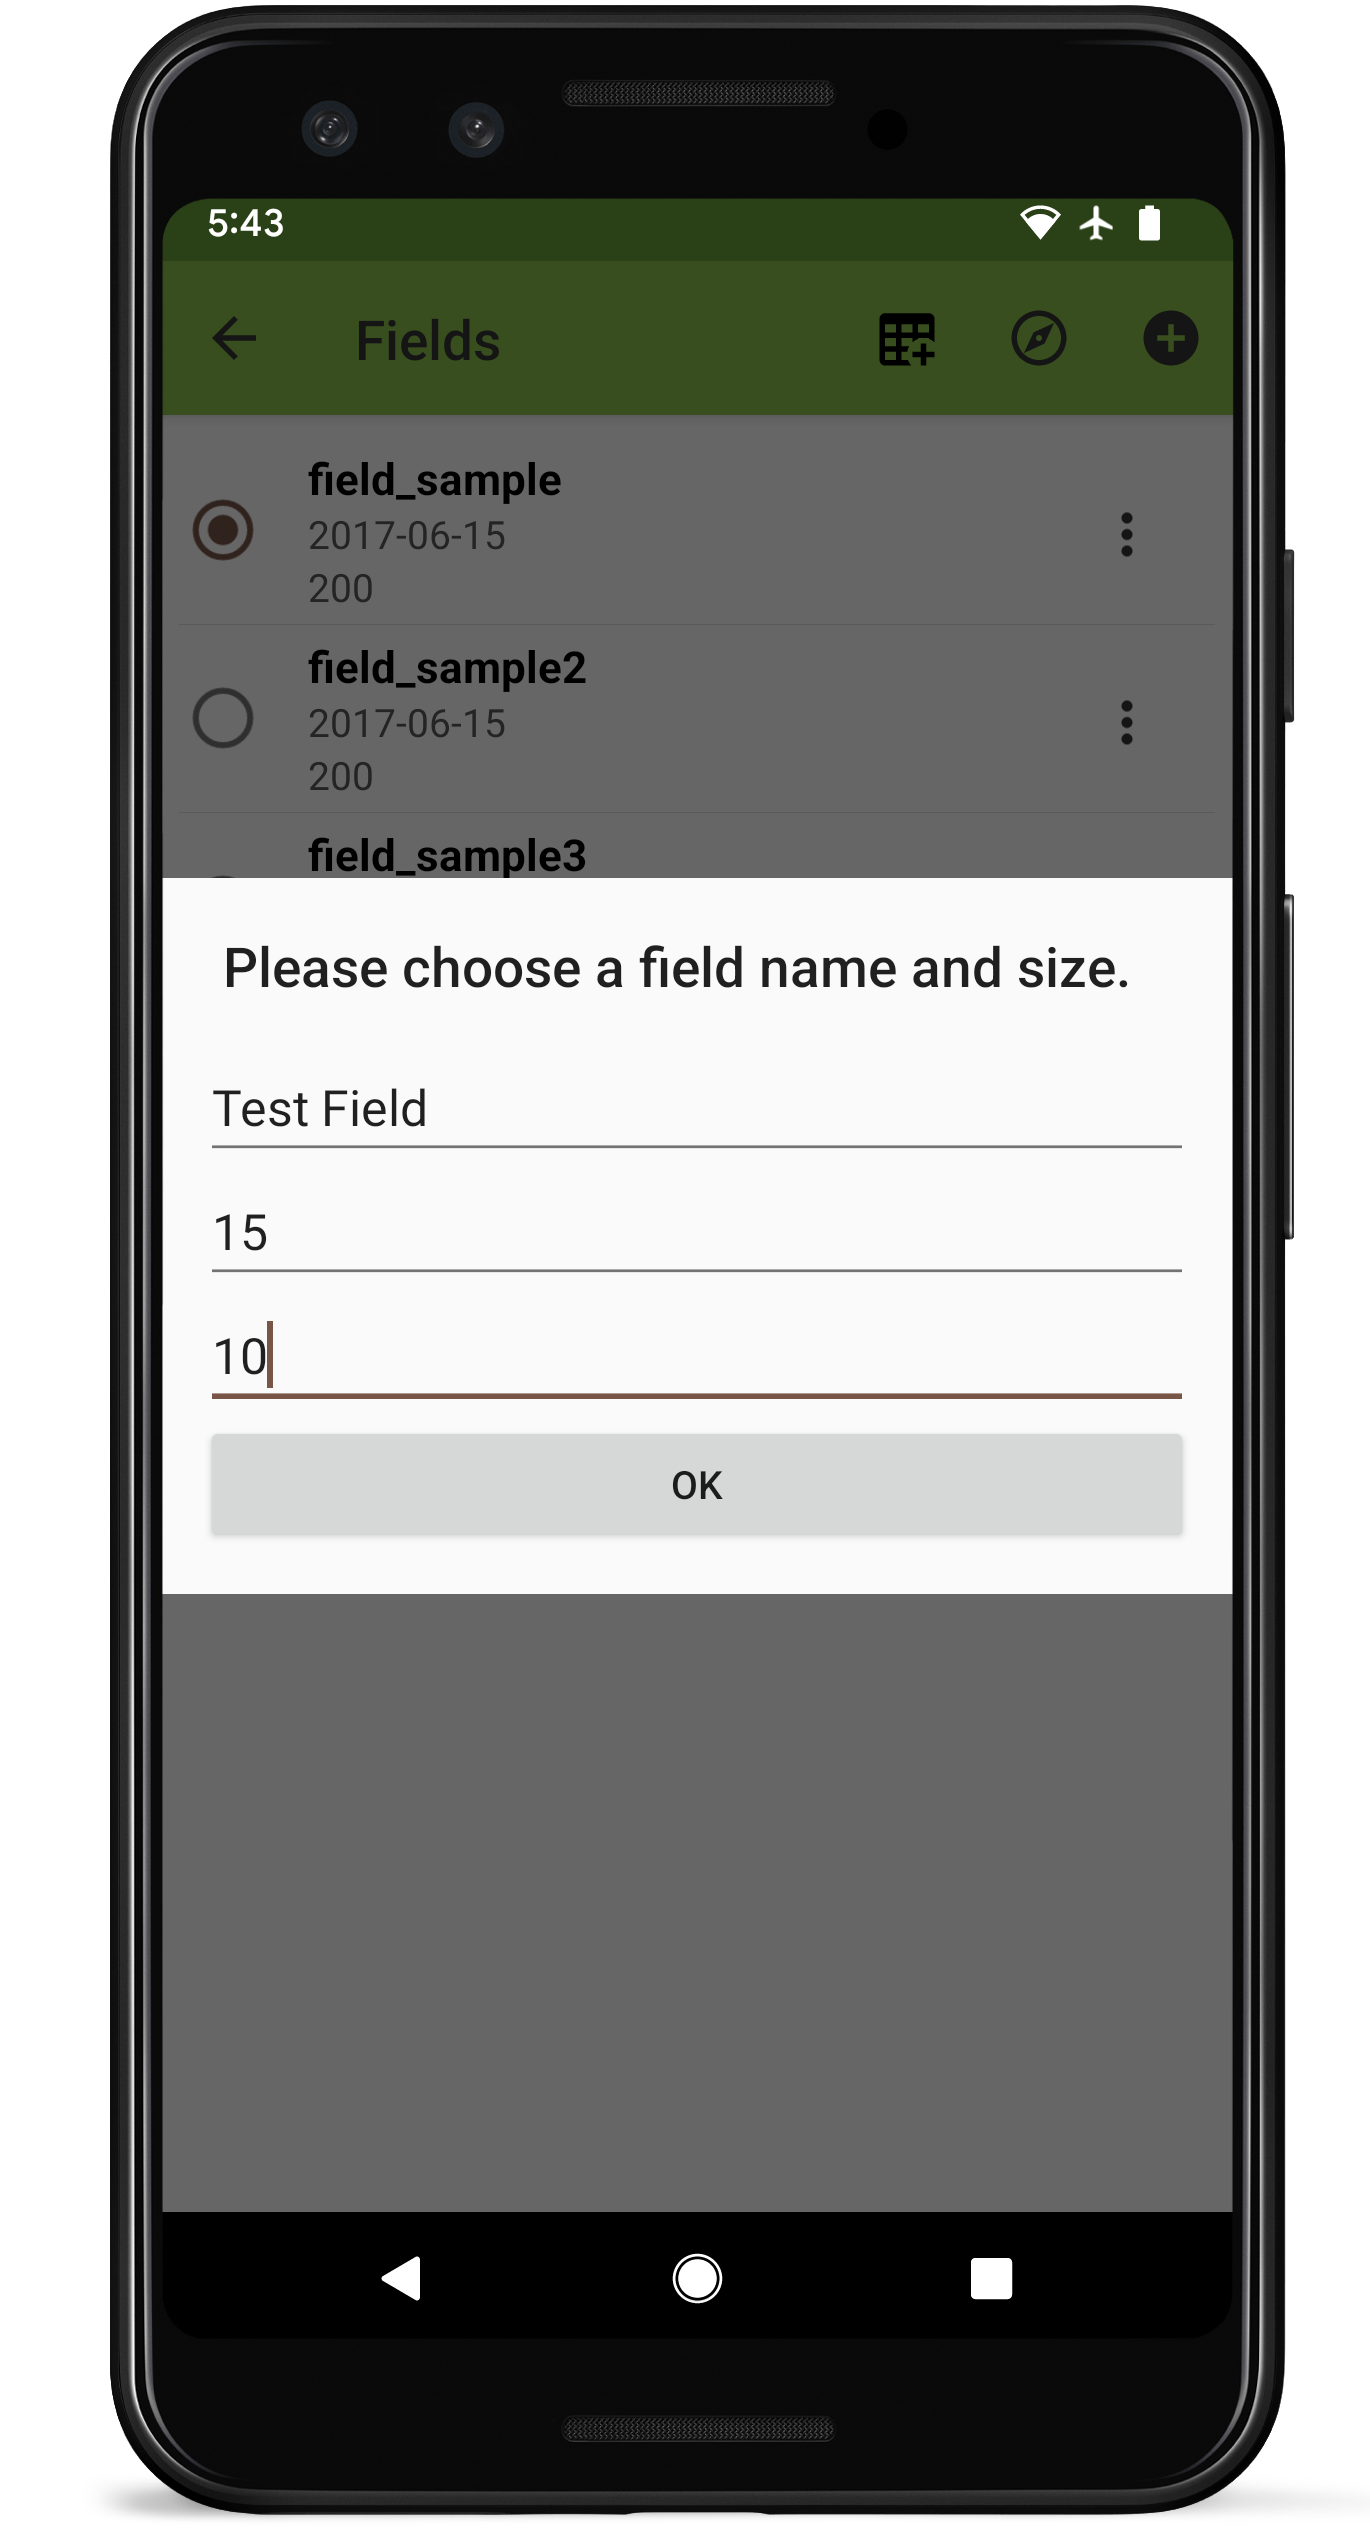
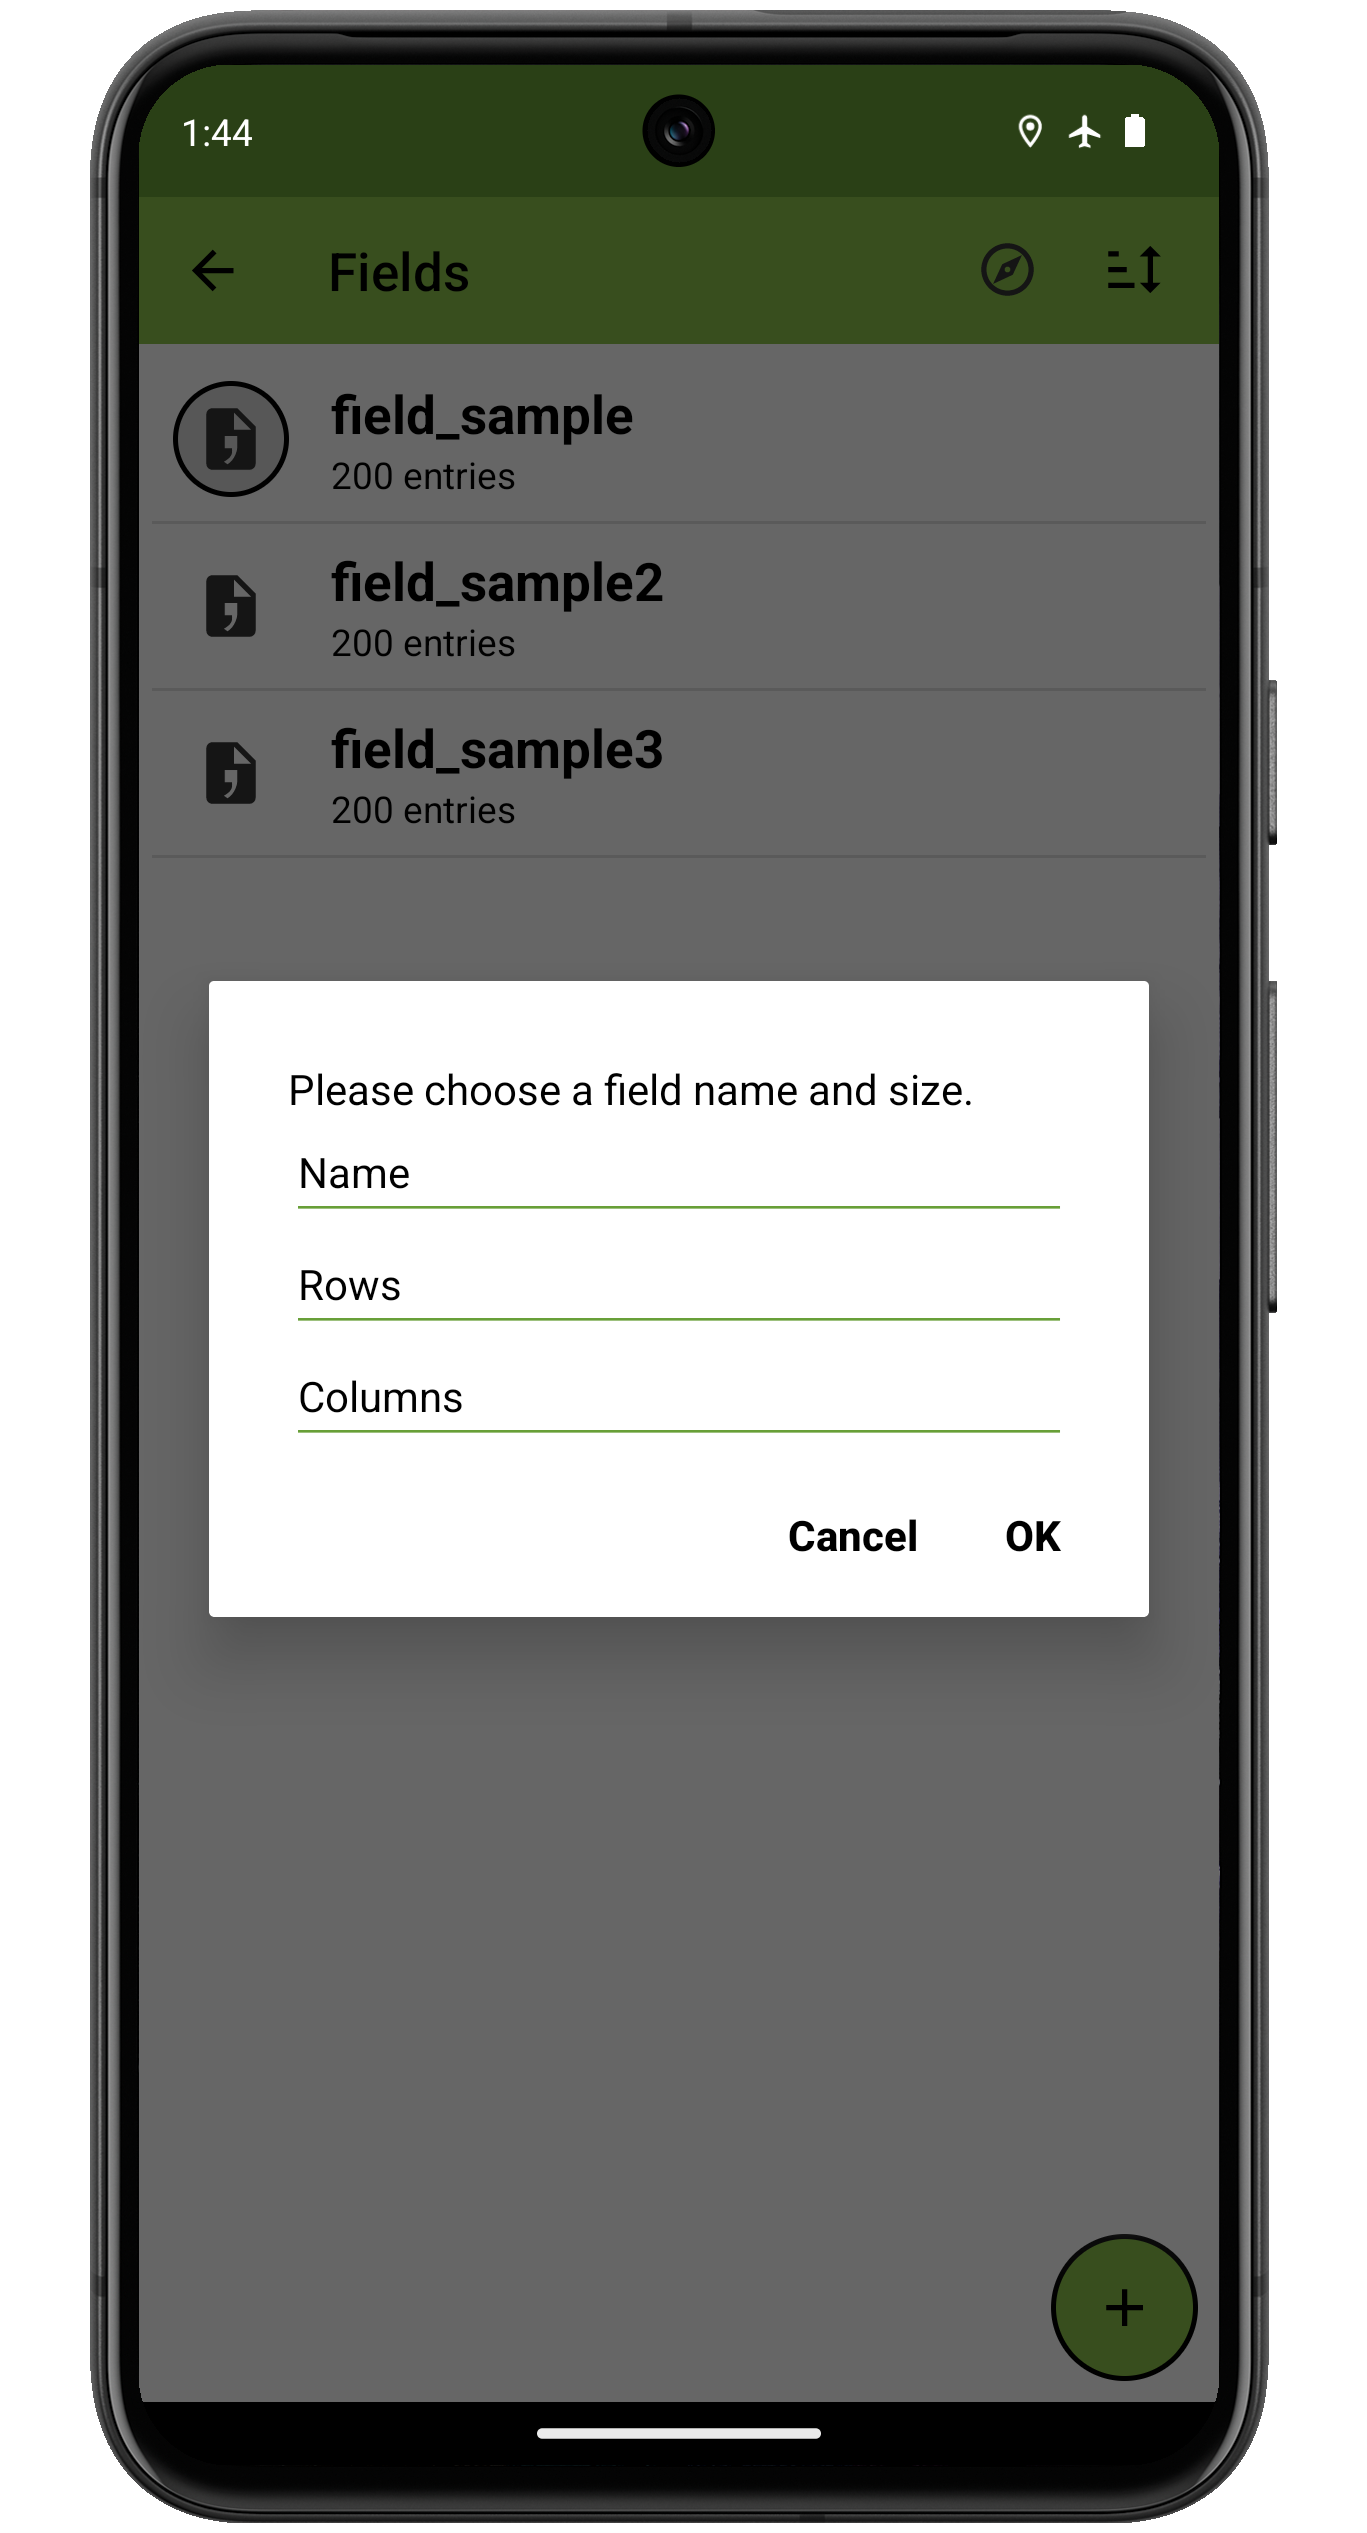
update fields.md

diff --git a/docs/fields.md b/docs/fields.md
@@ -89,11 +89,17 @@ The <img class="icon" src="_static/icons/fields/menu.png"> menu icon in the uppe
 
 Creating a new field directly in Field Book requires a field name, dimensions, starting corner for entry ordering, and whether entries should progress in a zigzag or serpentine order.
 Universal unique IDs will be generated for all entries.
-Confirm the planned settings are as expected, then press OK.
 
 <figure class="image">
   <img class="screenshot" src="_static/images/fields/fields_create_joined.png" width="1100px"> 
-  <figcaption class="screenshot-caption"><i>The field creation process</i></figcaption> 
+  <figcaption class="screenshot-caption"><i>Required input during field creation</i></figcaption> 
+</figure>
+
+Confirm the planned settings are as expected, then press OK.
+
+<figure class="image">
+  <img class="screenshot" src="_static/images/fields/fields_create_2_joined.png" width="700px"> 
+  <figcaption class="screenshot-caption"><i>Confirmation and a newly created field</i></figcaption> 
 </figure>
 
 #### Breeding API (BrAPI)
@@ -145,6 +151,11 @@ The sort dialog is populated by pressing the <img class="icon" src="_static/icon
 Column priority for sorting can be modified by using using the <img class="icon" src="_static/icons/traits/reorder-horizontal.png"> icon to drag and reorder them.
 The <img class="icon" src="_static/icons/fields/sort.png"> icon will toggle the sort between ascending and descending.
 The <img class="icon" src="_static/icons/settings/sounds/delete.png"> icon will remove columns that have been added.
+
+<figure class="image">
+  <img class="screenshot" src="_static/images/fields/field_detail_sort_joined.png" width="1100px"> 
+  <figcaption class="screenshot-caption"><i>Sorting entries by ascending row, then column</i></figcaption> 
+</figure>
 
 The <img class="icon" src="_static/icons/home/barley.png"> [Collect](collect.md) card will navigate to the Collect screen where data can be collected.
 
